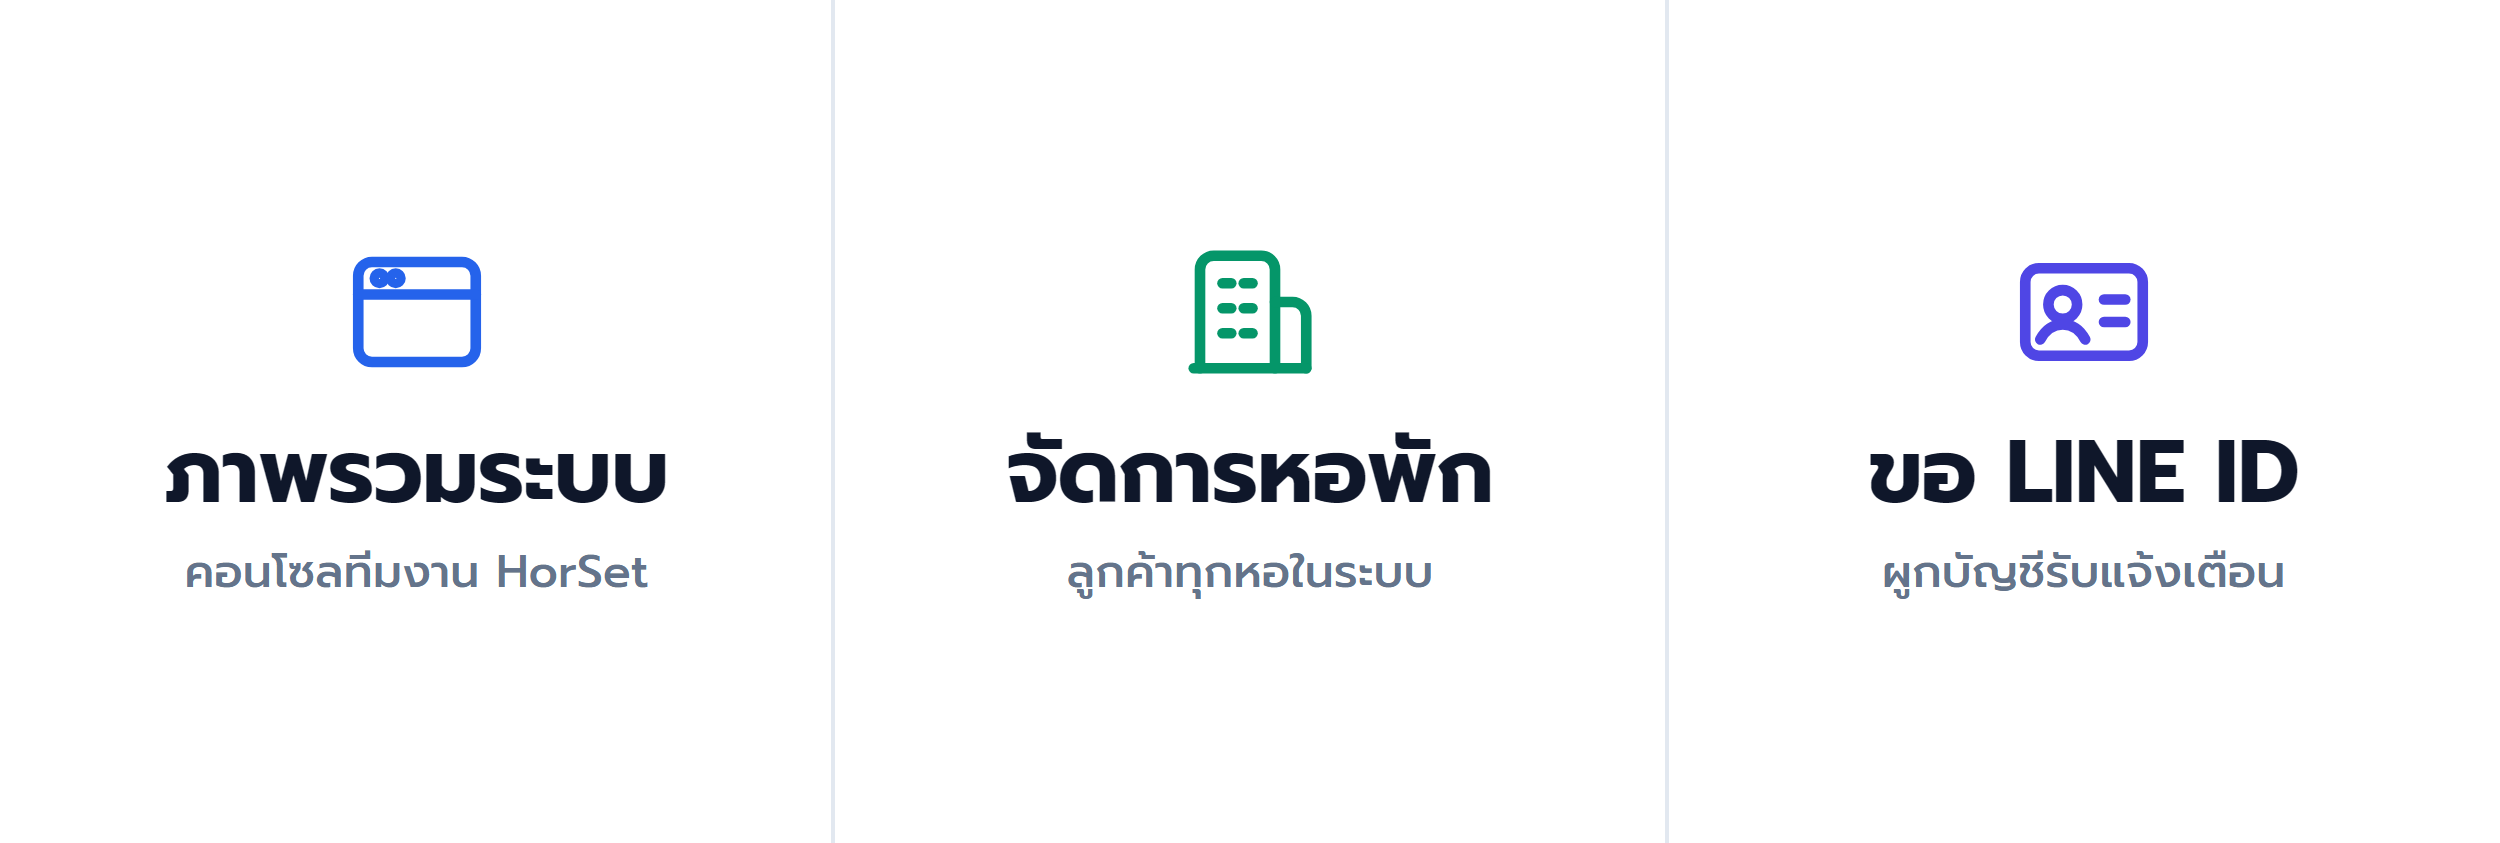
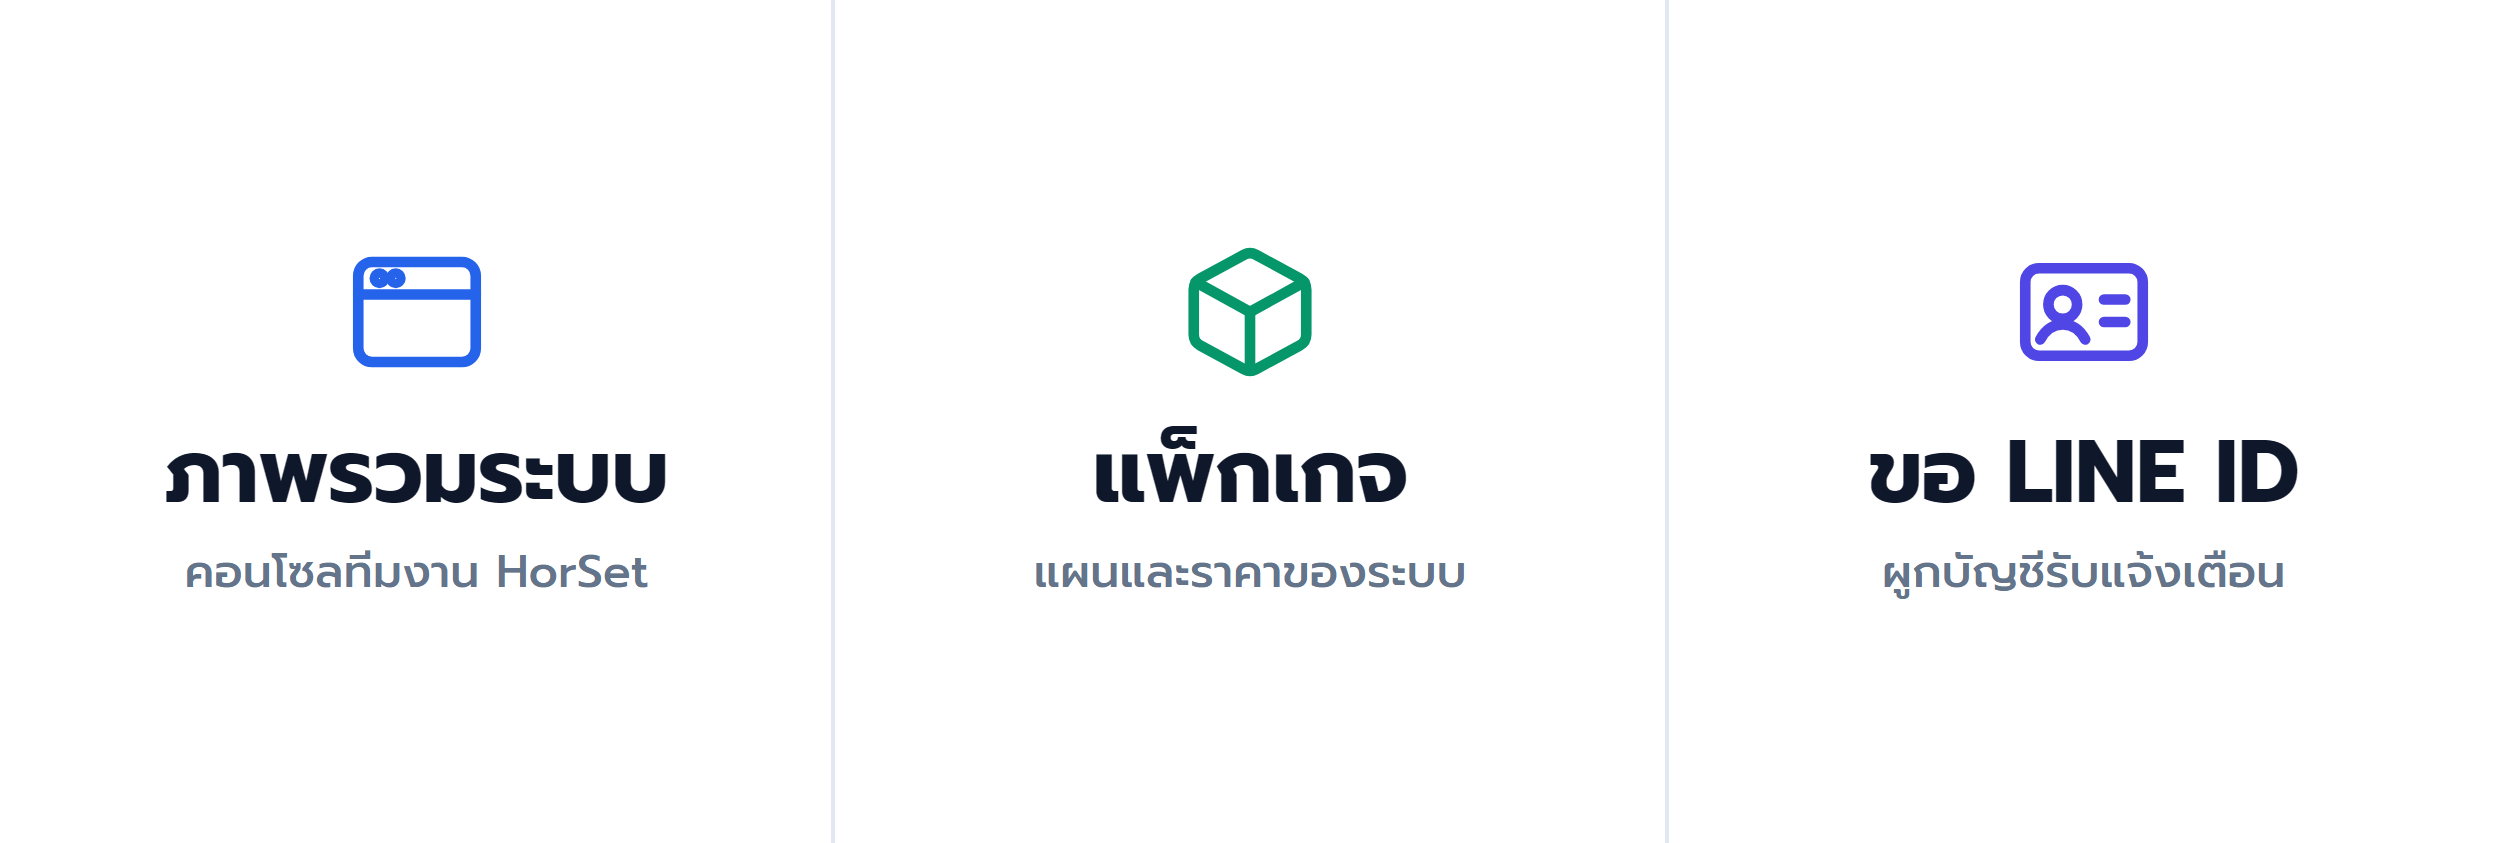
fix(line): แก้ปุ่มเมนู OA ทีมงานที่ชี้ไปหน้าที่ไม่มีอยู่จริง
ปุ่ม "จัดการหอพัก" ชี้ไป /super-admin/workspaces ซึ่งไม่ใช่ route ที่มีอยู่จริง
โฟลเดอร์นั้นมีแค่ [id]/page.tsx ข้างใน ไม่มี page.tsx ของตัวเอง Next จึงไม่สร้าง
route ให้ ผู้ใช้กดแล้วเจอ 404

เปลี่ยนเป็น "แพ็กเกจ" ชี้ไป /super-admin/plans แทนที่จะแก้ URL ให้ถูก เพราะรายชื่อหอ
ทั้งหมดอยู่ในหน้า /super-admin อยู่แล้ว (ลิงก์ไป /workspaces/{id} รายตัว) ปุ่มเดิม
จึงพาไปที่เดียวกับปุ่ม "ภาพรวมระบบ" ซ้ำกันเปล่า ๆ

ตรวจ route ที่เหลือทั้งหมดกับรายการที่ next build พิมพ์ออกมาแล้ว ไม่ใช่จากชื่อโฟลเดอร์

Changed region(s): [[0.4056, 0.4935, 0.624, 0.6168], [0.4056, 0.6477, 0.5928, 0.7094], [0.468, 0.2776, 0.5304, 0.4626]]

diff --git a/docs/line-rich-menu/images/super-admin-menu.html b/docs/line-rich-menu/images/super-admin-menu.html
@@ -92,19 +92,18 @@
     <div class="subtitle">คอนโซลทีมงาน HorSet</div>
   </div>
 
-  <!-- ปุ่ม 2 : จัดการหอพัก -->
+  <!-- ปุ่ม 2 : แพ็กเกจ
+       (เดิมเป็น "จัดการหอพัก" ชี้ไป /super-admin/workspaces ซึ่งไม่มีหน้าอยู่จริง -> 404
+        รายชื่อหอทั้งหมดอยู่ในหน้า /super-admin อยู่แล้ว ปุ่มนี้จึงซ้ำกับปุ่มแรกด้วย) -->
   <div class="cell cell-props">
     <svg class="icon ink-emerald" viewBox="0 0 24 24" fill="none" stroke="currentColor"
          stroke-width="1.7" stroke-linecap="round" stroke-linejoin="round">
-      <path d="M4 21V5.2A2.2 2.2 0 016.2 3h7.6A2.2 2.2 0 0116 5.2V21"/>
-      <path d="M16 10.4h2.8A2.2 2.2 0 0121 12.6V21"/>
-      <path d="M3 21h18"/>
-      <path d="M7.6 7.4h1.4"/><path d="M11 7.4h1.4"/>
-      <path d="M7.6 11.4h1.4"/><path d="M11 11.4h1.4"/>
-      <path d="M7.6 15.4h1.4"/><path d="M11 15.4h1.4"/>
+      <path d="M21 8.4v7.2a2 2 0 01-1.05 1.76l-7 3.8a2 2 0 01-1.9 0l-7-3.8A2 2 0 013 15.6V8.4a2 2 0 011.05-1.76l7-3.8a2 2 0 011.9 0l7 3.8A2 2 0 0121 8.4z"/>
+      <path d="M3.3 7.2L12 12l8.7-4.8"/>
+      <path d="M12 12v9.4"/>
     </svg>
-    <div class="title">จัดการหอพัก</div>
-    <div class="subtitle">ลูกค้าทุกหอในระบบ</div>
+    <div class="title">แพ็กเกจ</div>
+    <div class="subtitle">แผนและราคาของระบบ</div>
   </div>
 
   <!-- ปุ่ม 3 : ขอ LINE User ID (ส่งข้อความ #MYID ให้ webhook ตอบกลับ) -->
